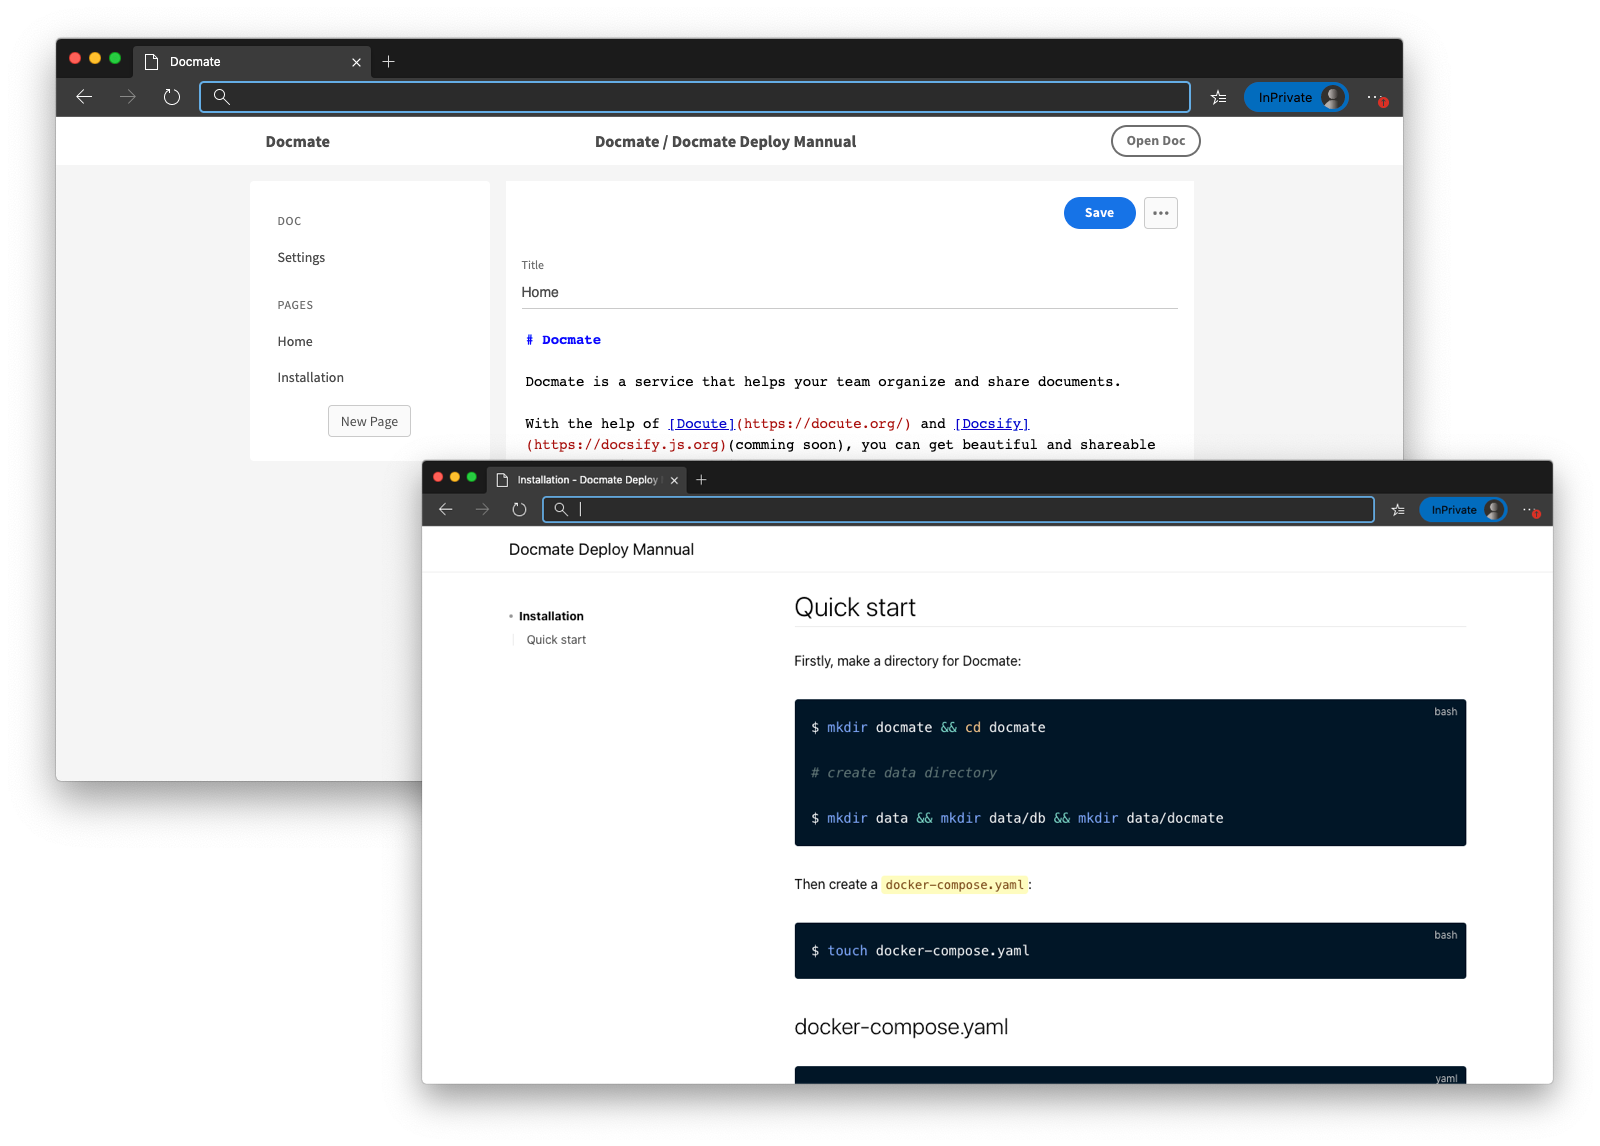
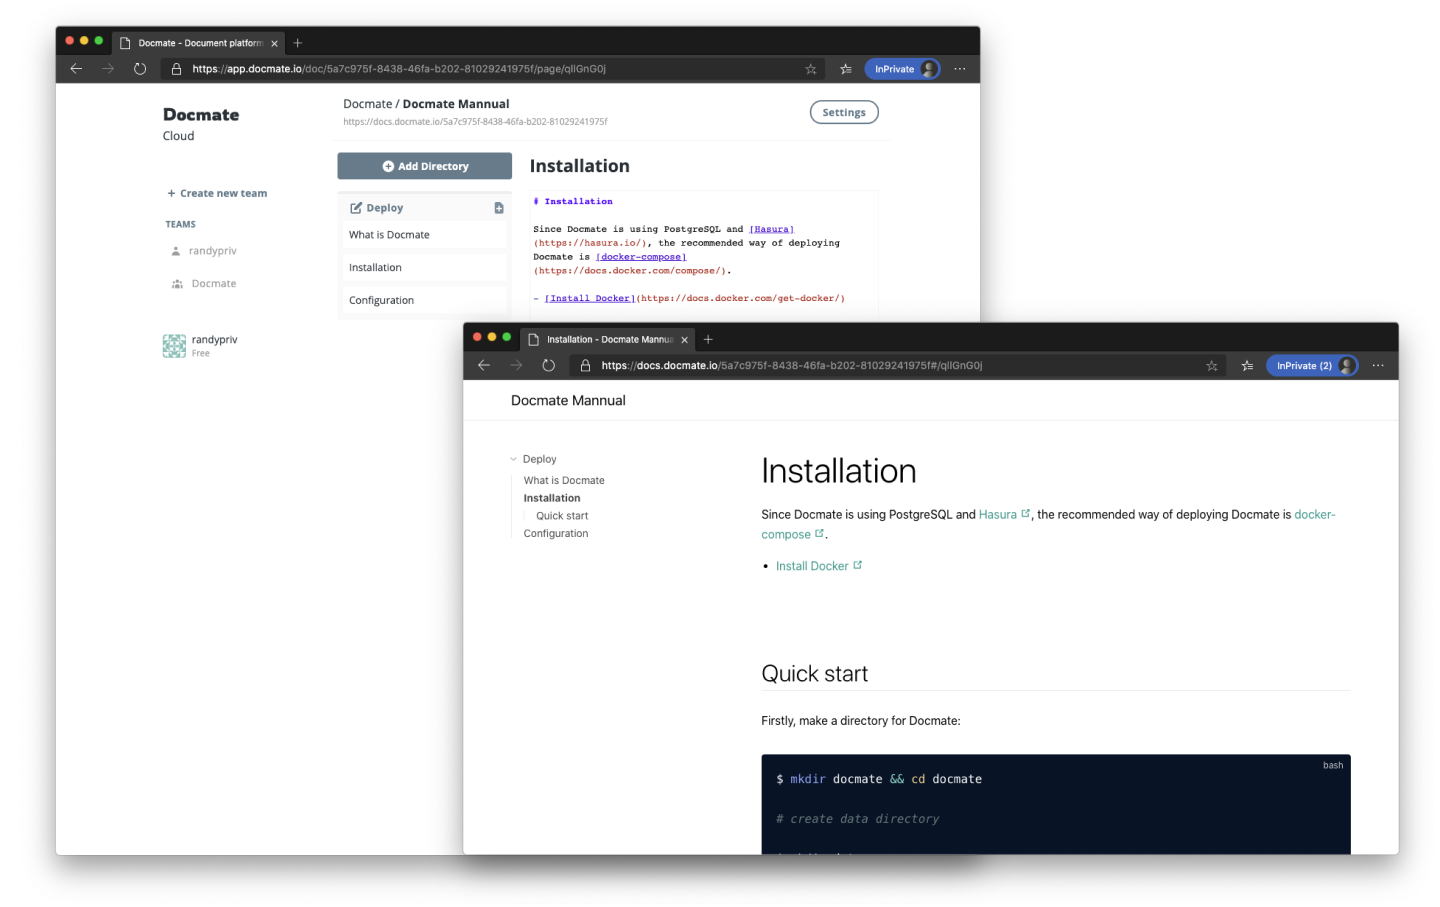
new images

diff --git a/src/index.html b/src/index.html
@@ -77,7 +77,7 @@
 
       <section>
         <div class="mt-12 w-full px-6 sm:px-0">
-          <img class="inline-block" src="/images/main.png" alt="editor view">
+          <img class="inline-block" src="/images/main3.png" alt="editor view">
         </div>
       </section>
 
@@ -89,16 +89,12 @@
               <li>Organize doc pages easily by dragging</li>
               <li>Collaborate with team members</li>
               <li>Create private documents (only visible with team members)</li>
-              <li>Use different documentation site generators (Docute or Docsify) *</li>
+              <li>Use different documentation site generators (Docute or Docsify)</li>
               <li>Paste and upload images</li>
             </ul>
-
-            <div class="mt-12">
-              <small class="text-gray-500">* Docsify will be supported soon.</small>
-            </div>
           </div>
           <div class="flex-1">
-            <img class="inline-block" src="/images/features.png" alt="">
+            <img class="inline-block" src="/images/drag.png" alt="">
           </div>
         </div>
       </section>
